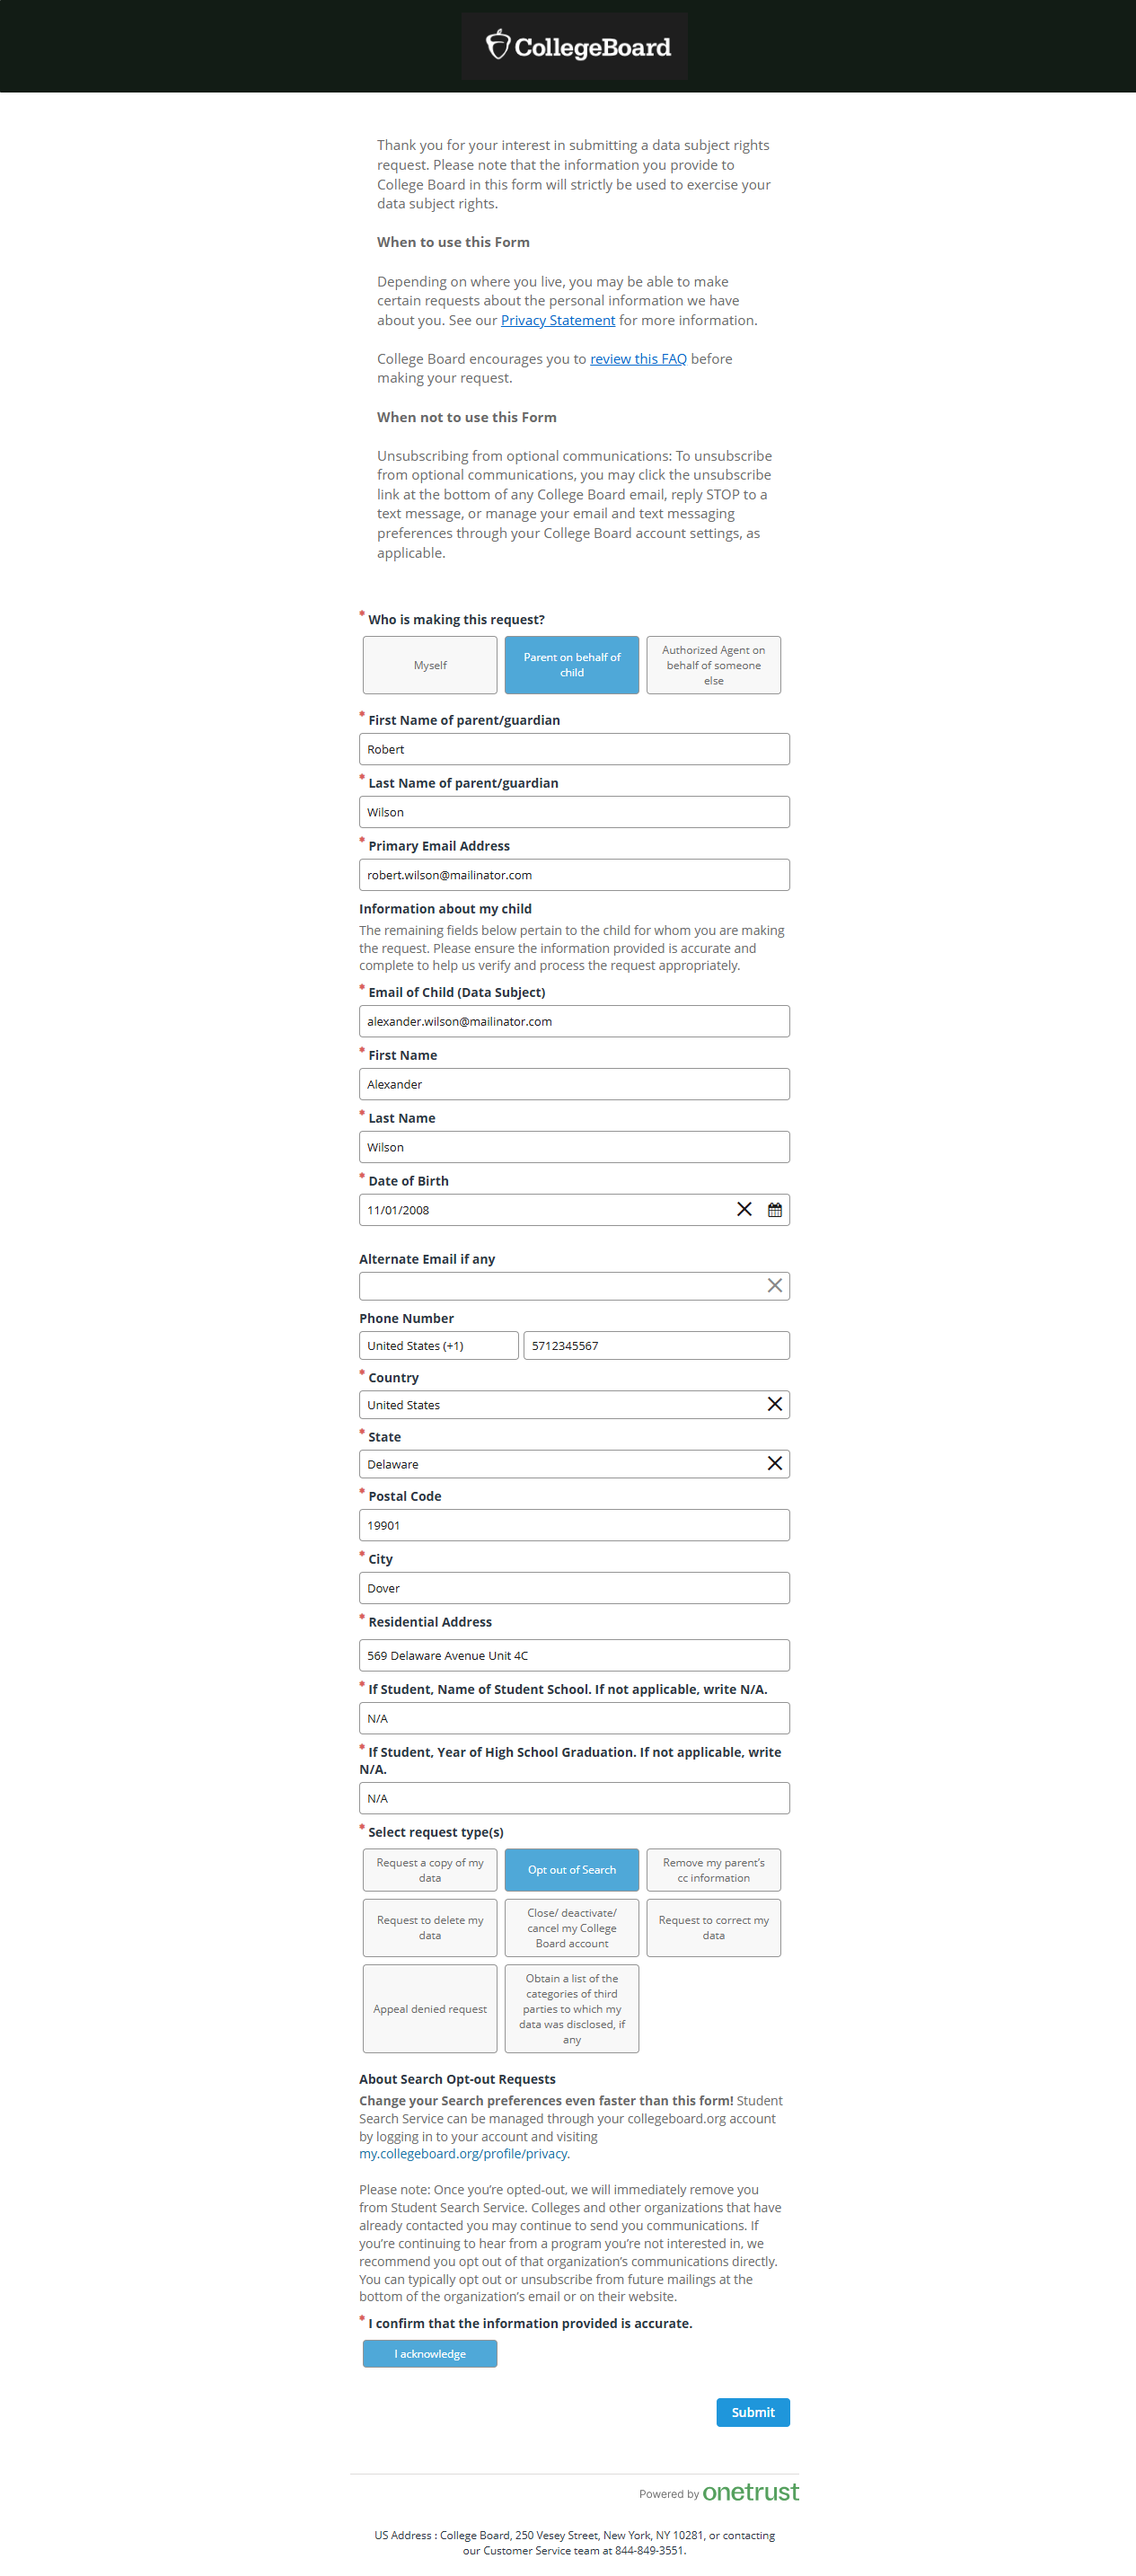
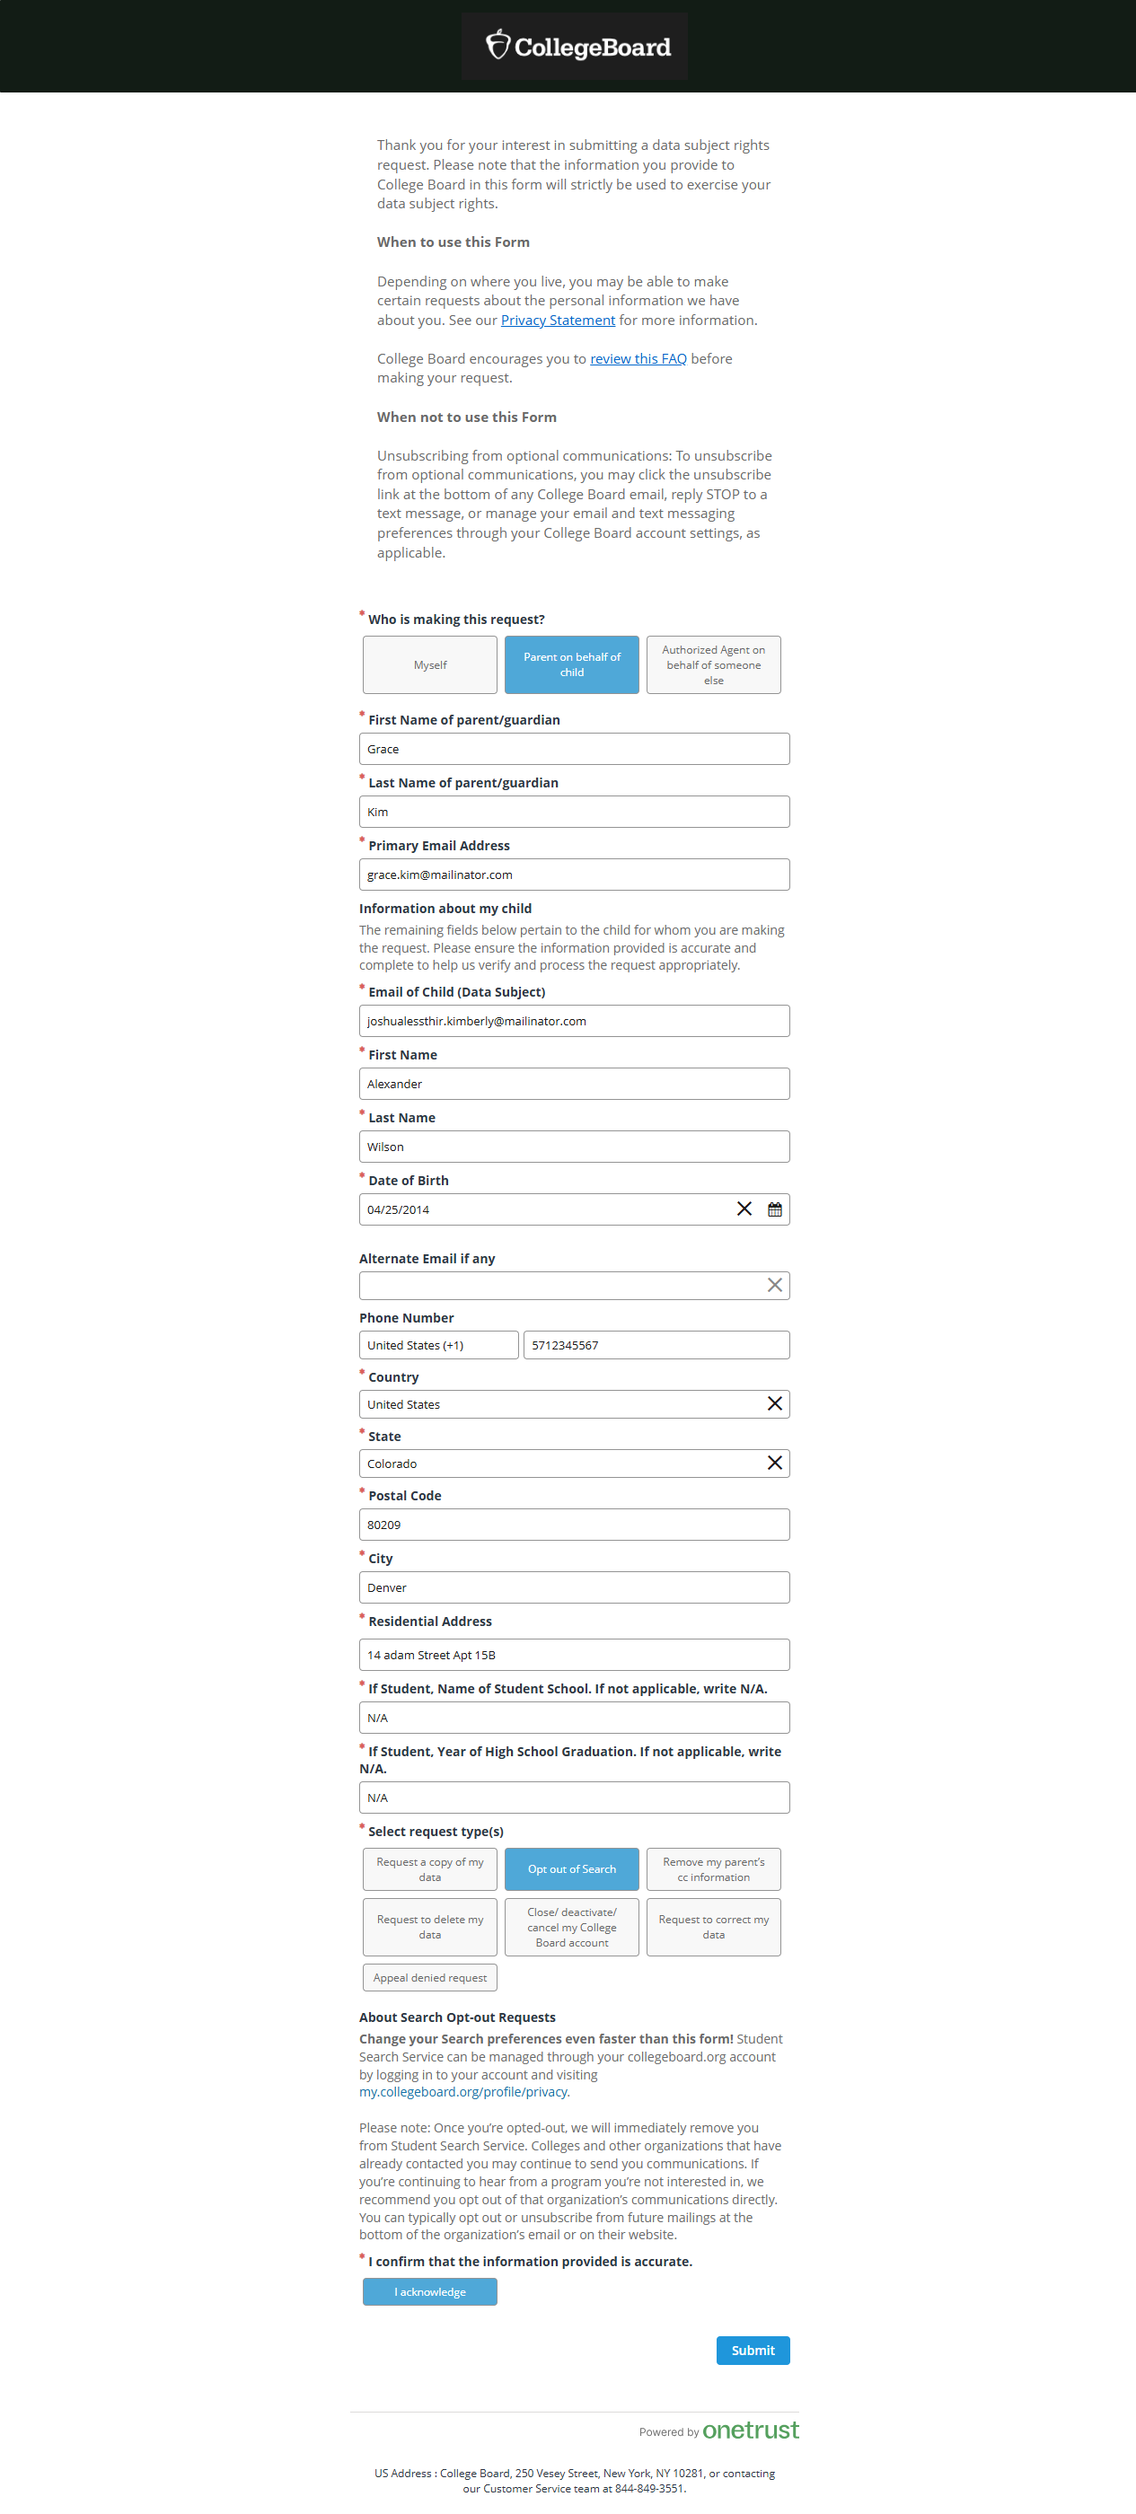
commit

diff --git a/Newfolder/dsr/scripts/Domestic_Parent_requesttypes_submission_MULTIPLE.py b/Newfolder/dsr/scripts/Domestic_Parent_requesttypes_submission_MULTIPLE.py
@@ -679,10 +679,35 @@ class TestPrivacyPortal:
         for selector in birthdate_selectors:
             try:
                 if page.locator(selector).first.is_visible():
-                    # Get birth date from Excel data and try different formats
-                    birth_date_raw = str(self.form_data.get('Date of Birth', self.form_data.get('birthDate', '11/1/2008')))
+                    # Get birth date from Excel data - try multiple column name variations
+                    birth_date_raw = str(self.form_data.get('Date of Birth', ''))
+                    if not birth_date_raw or birth_date_raw == 'nan' or birth_date_raw == '':
+                        birth_date_raw = str(self.form_data.get('birthDate', ''))
+                    if not birth_date_raw or birth_date_raw == 'nan' or birth_date_raw == '':
+                        birth_date_raw = str(self.form_data.get('date_of_birth', ''))
+                    if not birth_date_raw or birth_date_raw == 'nan' or birth_date_raw == '':
+                        birth_date_raw = str(self.form_data.get('DateOfBirth', ''))
+                    
+                    # If still no birth date found, check all columns for date-like content
+                    if not birth_date_raw or birth_date_raw == 'nan' or birth_date_raw == '':
+                        print("⚠ Birth date not found in expected columns, checking all columns...")
+                        for key, value in self.form_data.items():
+                            if 'birth' in key.lower() or 'date' in key.lower():
+                                print(f"   Found potential birth date column: {key} = {value}")
+                                if value and str(value) != 'nan' and str(value) != '':
+                                    birth_date_raw = str(value)
+                                    break
+                    
+                    # Final fallback - but warn user
+                    if not birth_date_raw or birth_date_raw == 'nan' or birth_date_raw == '':
+                        print("❌ NO BIRTH DATE FOUND IN EXCEL! Using emergency fallback.")
+                        print("📋 Available columns in Excel record:")
+                        for key, value in self.form_data.items():
+                            print(f"     {key}: {value}")
+                        birth_date_raw = "04/25/2014"  # Better fallback date
+                    
                     print(f"🎂 Using birth date from Excel: '{birth_date_raw}'")
-                    date_formats = [birth_date_raw, "04/25/2014", "04/25/2014", "2014-04-25", "25/04/2014", "25-04-2014"]
+                    date_formats = [birth_date_raw, "04/25/2014", "2014-04-25", "25/04/2014", "25-04-2014"]
                     for date_format in date_formats:
                         try:
                             page.fill(selector, date_format)
